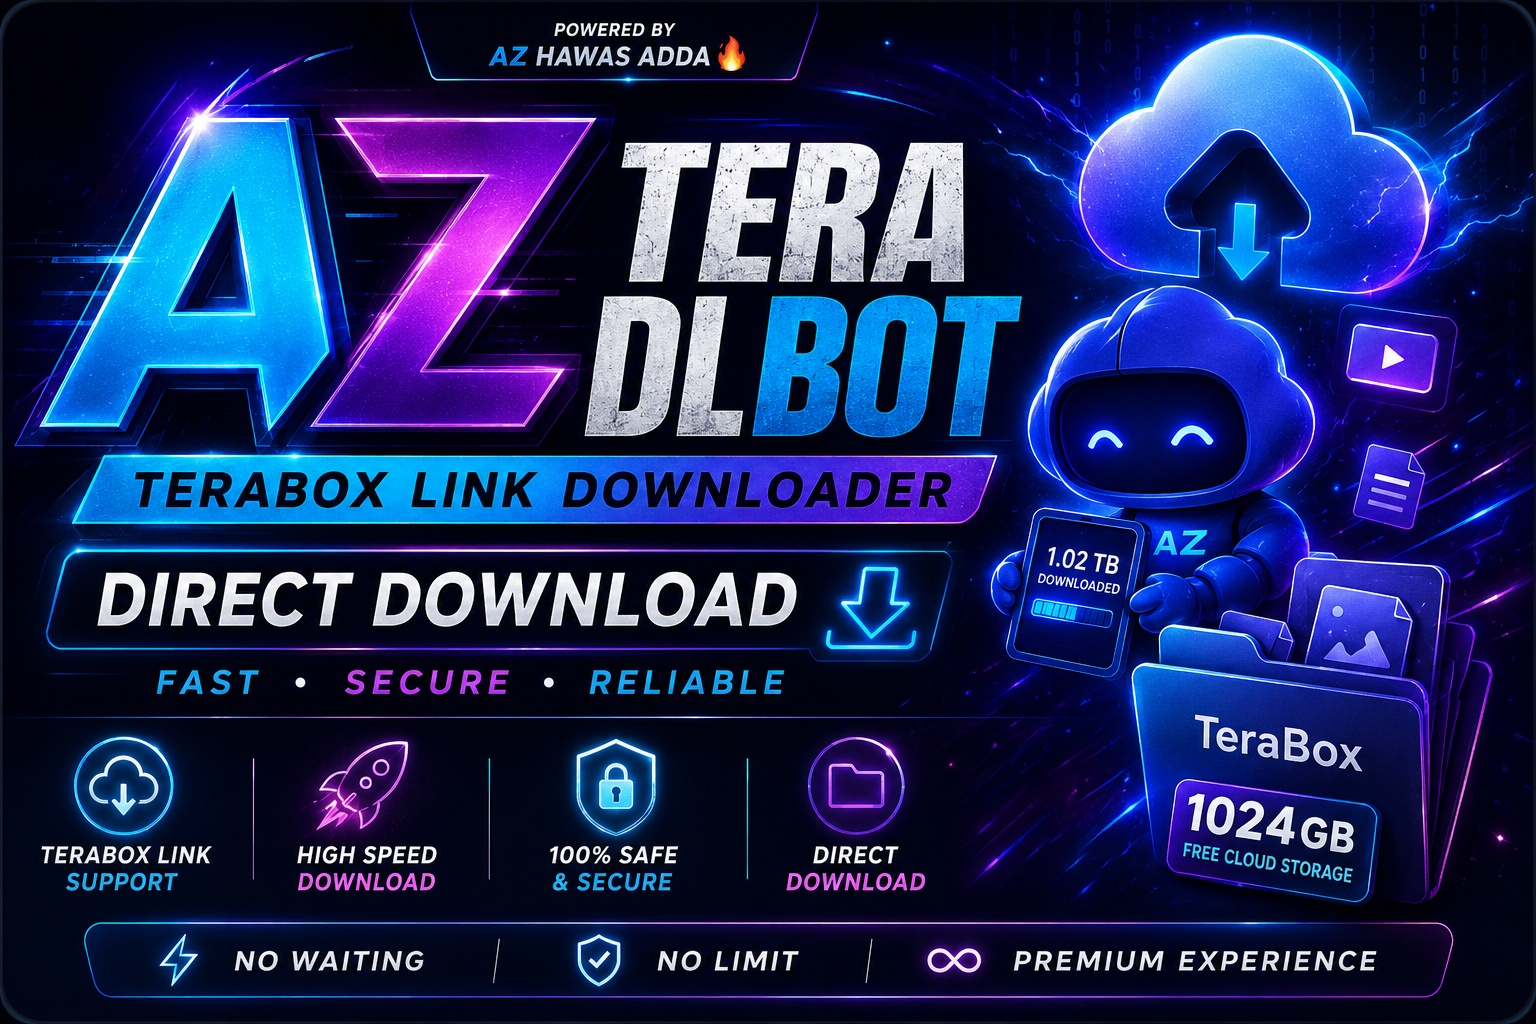
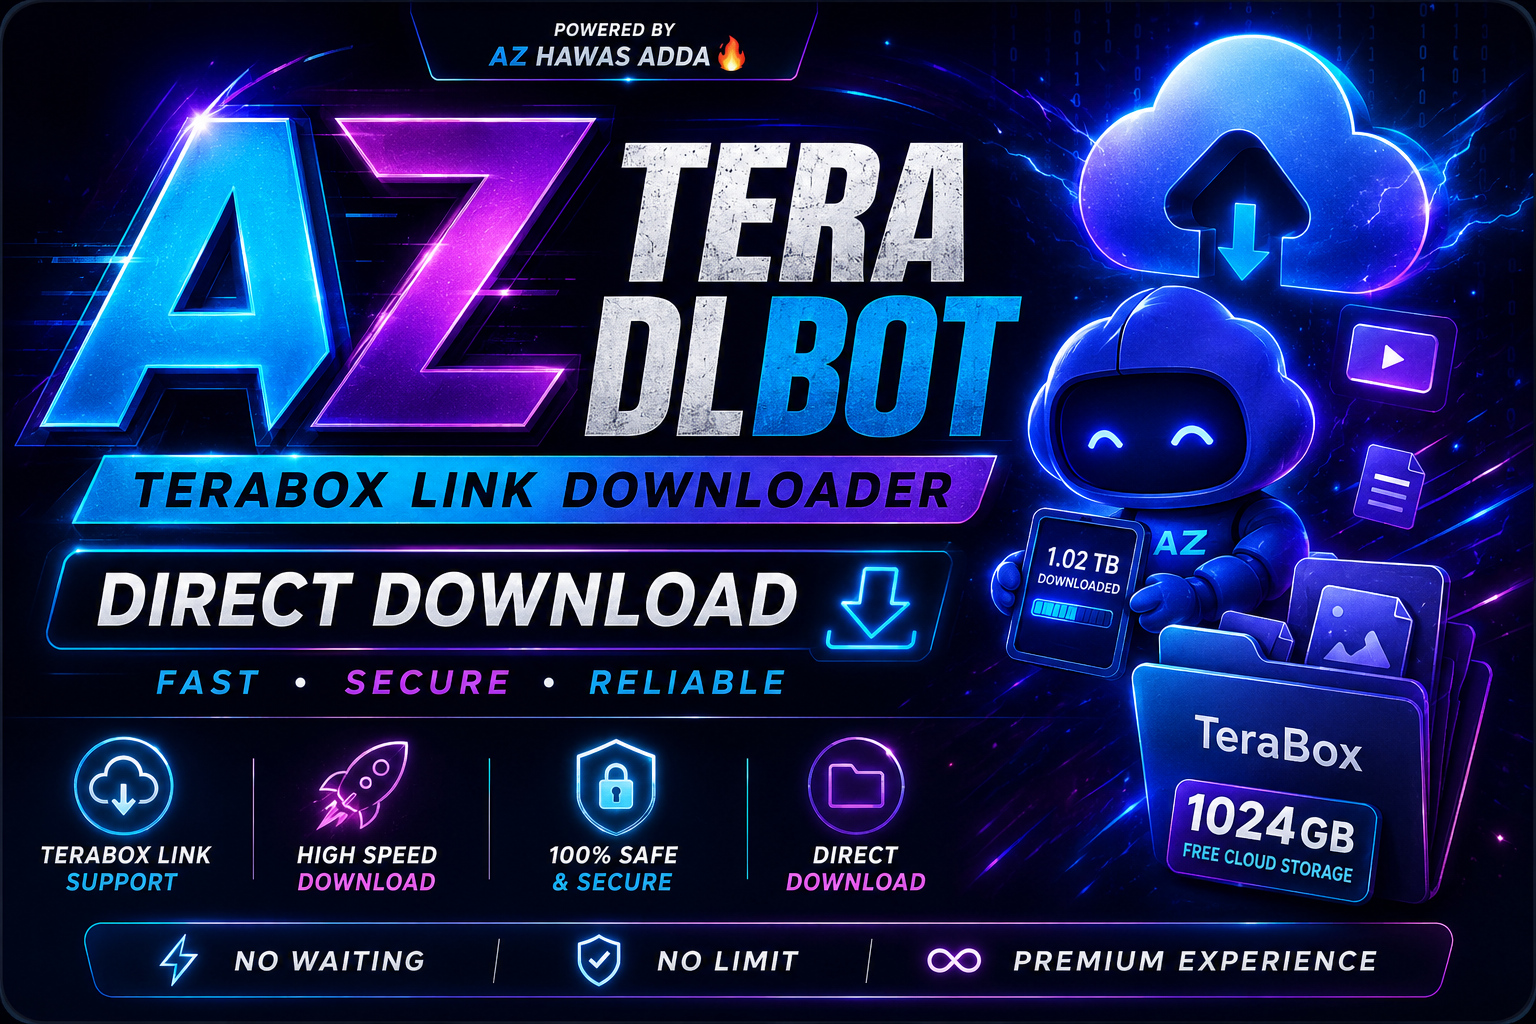
Use original PNG thumbnail to preserve maximum quality

diff --git a/bot/handlers/downloader.py b/bot/handlers/downloader.py
@@ -107,8 +107,14 @@ async def handle_link(client, message: Message):
         "<i>Powered by</i> @az_hawas_adda 🔥"
     )
     
-    thumb_path = os.path.join(os.path.dirname(__file__), "..", "utils", "thumbnail.jpg")
-    if not os.path.exists(thumb_path):
+    # Use PNG first to avoid JPEG compression quality loss
+    thumb_png = os.path.join(os.path.dirname(__file__), "..", "utils", "thumbnail.png")
+    thumb_jpg = os.path.join(os.path.dirname(__file__), "..", "utils", "thumbnail.jpg")
+    if os.path.exists(thumb_png):
+        thumb_path = thumb_png
+    elif os.path.exists(thumb_jpg):
+        thumb_path = thumb_jpg
+    else:
         thumb_path = None
 
     try: